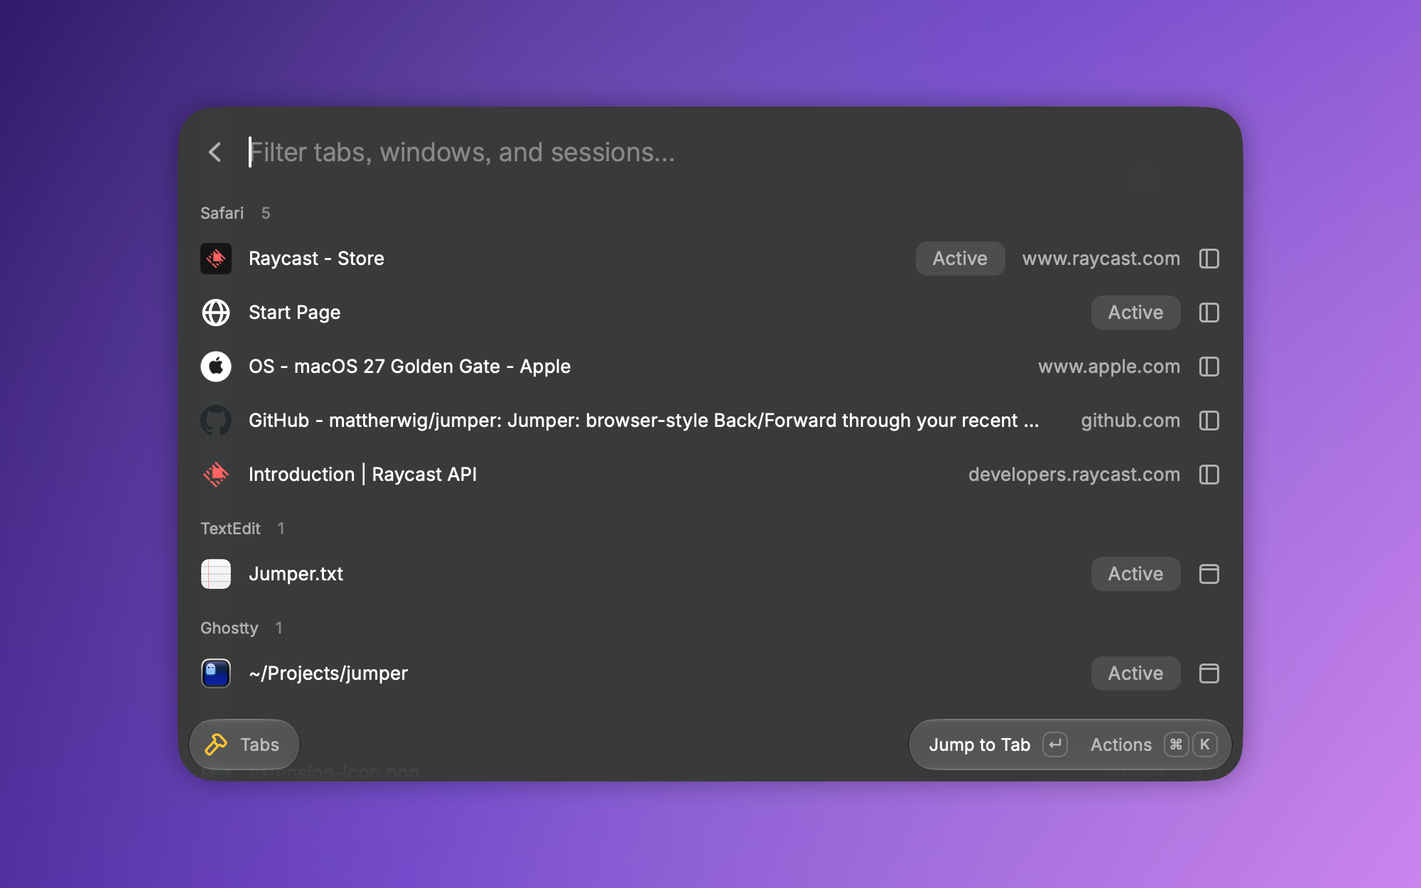
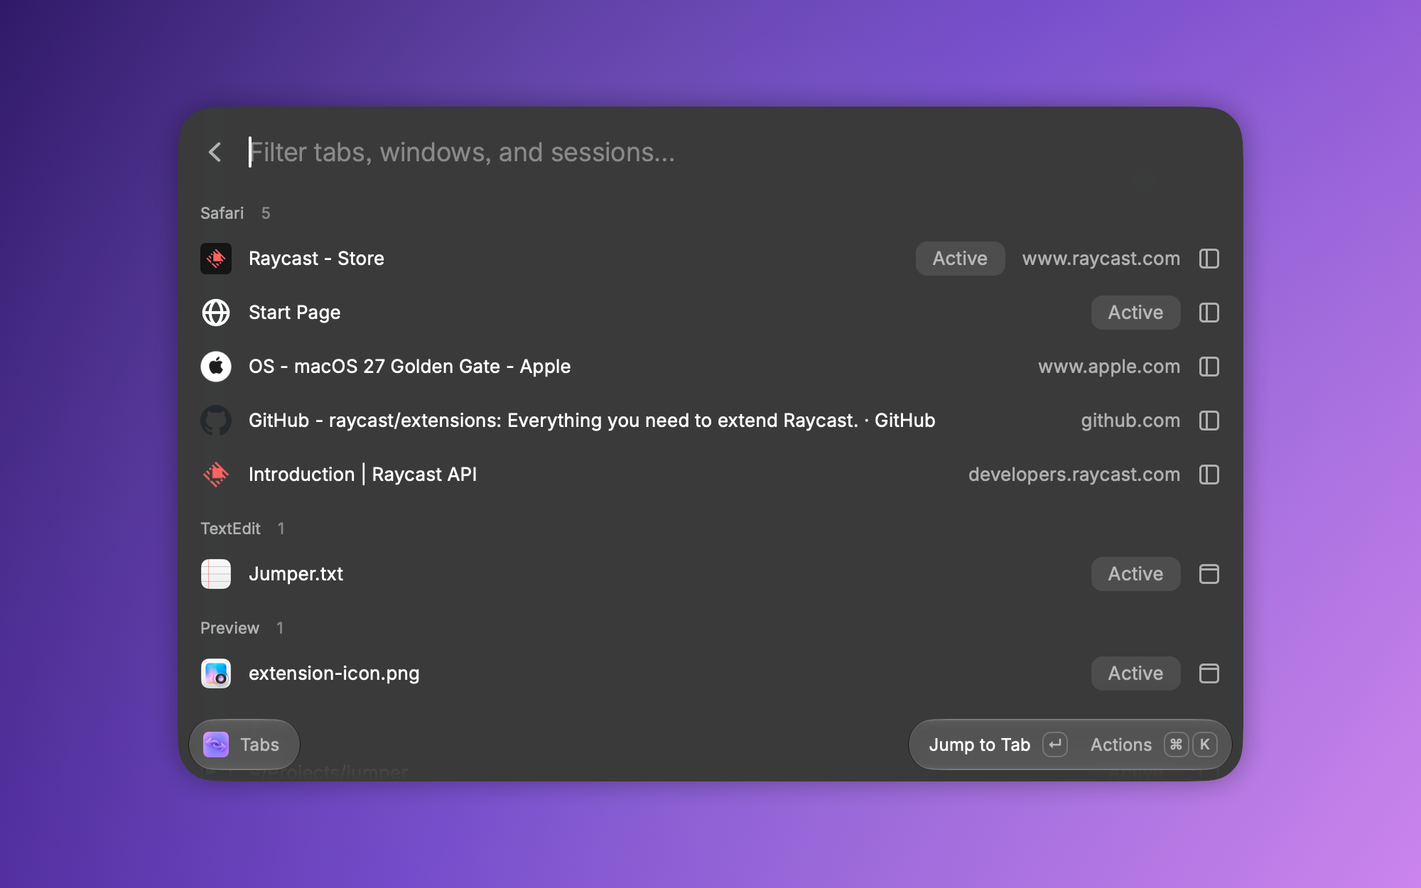
Demo GIF: staged windows over a backdrop, fuzzy Tabs jump to cmux
- keycast.swift: a dark Raycast-style backdrop at normal window level hides everything but the staged apps.
- Back/Forward/Toggle (shortened to 2/2/2) cycle through three staggered windows (Safari, Preview, TextEdit), so each switch is visible.
- Tabs pastes the fuzzy query "gh-pages" and jumps to the owner's cmux workspace github-pages.
- Nothing shows the owner's name: Finder dropped from the demo apps (sidebar showed the home folder), staged GitHub tab is raycast/extensions.
- Screenshots retaken (jumper-5 no longer shows the owner's repo).

diff --git a/scripts/media/keycast.swift b/scripts/media/keycast.swift
@@ -3,7 +3,9 @@
 // Reads one JSON object per line on stdin:
 //   {"keys": ["⌃", "⌥", "["], "title": "Back", "detail": "to the previous app"}   keycaps HUD at the bottom
 //   {"card": "Jumper", "sub": "Back and Forward for your Mac apps"}               full-frame title card
-//   {}                                                                            hide everything
+//   {"backdrop": true}                                                            dark backdrop at normal window level
+//                                                                                 (stays until {"backdrop": false})
+//   {}                                                                            hide the HUD and card
 // EOF quits. Runs as an accessory app so it never takes focus (that would change the app history
 // being demoed).
 import AppKit
@@ -14,6 +16,7 @@ struct Message: Decodable {
   var detail: String?
   var card: String?
   var sub: String?
+  var backdrop: Bool?
 }
 
 let a = CommandLine.arguments.dropFirst().prefix(4).compactMap { Double($0) }
@@ -94,8 +97,47 @@ func show(_ panel: NSPanel, _ content: NSView, radius: CGFloat, padding: NSEdgeI
 
 let hud = makePanel()
 let card = makePanel()
+let backdrop = makePanel()
+
+/// A desktop for the demo: covers the recording area at normal window level, ordered front once before the demo
+/// apps are activated, so their windows come up above it while the owner's own windows stay hidden behind it.
+func showBackdrop() {
+  let view = NSView()
+  view.wantsLayer = true
+  let base = CAGradientLayer()
+  base.colors = [
+    NSColor(srgbRed: 0.05, green: 0.04, blue: 0.09, alpha: 1).cgColor,
+    NSColor(srgbRed: 0.13, green: 0.07, blue: 0.24, alpha: 1).cgColor,
+  ]
+  base.startPoint = CGPoint(x: 0, y: 1)
+  base.endPoint = CGPoint(x: 1, y: 0)
+  base.frame = NSRect(origin: .zero, size: area.size)
+  // Raycast-style glows: coral top left, violet bottom right.
+  for (color, center) in [
+    (NSColor(srgbRed: 1.0, green: 0.39, blue: 0.39, alpha: 0.35), CGPoint(x: 0.15, y: 0.85)),
+    (NSColor(srgbRed: 0.55, green: 0.35, blue: 0.95, alpha: 0.45), CGPoint(x: 0.85, y: 0.15)),
+  ] {
+    let glow = CAGradientLayer()
+    glow.type = .radial
+    glow.colors = [color.cgColor, color.withAlphaComponent(0).cgColor]
+    glow.startPoint = center
+    glow.endPoint = CGPoint(x: center.x + 0.6, y: center.y + 0.6)
+    glow.frame = base.frame
+    base.addSublayer(glow)
+  }
+  view.layer = base
+  backdrop.level = .normal
+  backdrop.hasShadow = false
+  backdrop.contentView = view
+  backdrop.setFrame(area, display: true)
+  backdrop.orderFrontRegardless()
+}
 
 func handle(_ m: Message) {
+  if let b = m.backdrop {
+    if b { showBackdrop() } else { backdrop.orderOut(nil) }
+    return
+  }
   if let keys = m.keys {
     let caps = NSStackView(views: keys.map(keycap))
     caps.spacing = 6

diff --git a/scripts/media/store_media.py b/scripts/media/store_media.py
@@ -28,7 +28,10 @@ atexit.register(shutil.rmtree, TMP, ignore_errors=True)
 # Built-in apps with no personal content, activated oldest -> newest so they fill every visible
 # History row (about 10 on a 1352x878pt screen) and push the user's own apps out of view.
 # The last one is "Current".
-# `framed` apps get their window moved over the recording area for the GIF.
+# `staged` apps are the GIF's cast: their windows are placed staggered over the recording area, above a backdrop
+# that hides everything else (the other demo apps' windows and the owner's own). Back, Forward, and Toggle cycle
+# through them. Keep them last, and keep the owner's personal content out of them. No Finder: its sidebar shows
+# the home folder name, and it registered in the app order late, so Back landed on it instead of a staged app.
 DEMO_APPS = [
     ("Tips", ["open", "-a", "Tips"], False),
     ("Stocks", ["open", "-a", "Stocks"], False),
@@ -37,11 +40,10 @@ DEMO_APPS = [
     ("Dictionary", ["open", "dict://jump"], False),
     ("Font Book", ["open", "-a", "Font Book"], False),
     ("Chess", ["open", "-a", "Chess"], False),
-    ("Finder", None, True),  # opens a window on /System/Applications (Apple apps only), see setup_apps
-    ("Preview", ["open", "-a", "Preview", str(EXT / "assets/extension-icon.png")], True),
-    ("Ghostty", None, True),  # the owner's own session: used only if already running, never quit
+    ("Ghostty", None, False),  # the owner's own session: used only if already running, never quit or moved
     ("Safari", None, True),  # a new window with SAFARI_TABS; the owner's own windows are left alone
-    ("TextEdit", None, True),  # opens a scratch note, see setup_apps
+    ("Preview", ["open", "-a", "Preview", str(EXT / "assets/extension-icon.png")], True),
+    ("TextEdit", None, True),  # opens a scratch note
 ]
 
 # Public pages for the staged Safari window: the Tabs command's shots and GIF show these, with the owner's own
@@ -49,7 +51,7 @@ DEMO_APPS = [
 SAFARI_TABS = [
     "https://www.raycast.com/store",
     "https://www.apple.com/os/macos/",
-    "https://github.com/mattherwig/jumper",
+    "https://github.com/raycast/extensions",
     "https://developers.raycast.com/",
 ]
 
@@ -138,19 +140,21 @@ def wait_for_window(process: str, timeout: float = 10) -> None:
 class DemoApps:
     """Brings up DEMO_APPS in order and undoes it afterwards (quits only what it launched)."""
 
-    def __init__(self, frame: tuple[int, int, int, int] | None = None):
-        self.frame = frame
+    def __init__(self, frames: dict[str, tuple[int, int, int, int]] | None = None, before_staged=None):
+        self.frames = frames or {}  # staged app -> window rect (x, y, w, h), for the GIF
+        self.before_staged = before_staged  # called once before the first staged app comes up (the backdrop)
         self.launched: list[str] = []
-        self.finder_window: str | None = None
         self.safari_window: str | None = None
         self.note = TMP / "Jumper.txt"
         self.previous_app = frontmost()
-        self.restore: list[tuple[str, str]] = []  # (process, "x, y, w, h") of windows we moved but don't own
 
     def __enter__(self):
         self.note.write_text(NOTE)
-        for name, cmd, framed in DEMO_APPS:
+        for name, cmd, staged in DEMO_APPS:
             process = PROCESS.get(name, name)
+            if staged and self.before_staged:
+                self.before_staged()
+                self.before_staged = None
             if name == "Ghostty":
                 if not running(name):
                     print("note: Ghostty not running, leaving it out of the demo", file=sys.stderr)
@@ -168,32 +172,20 @@ class DemoApps:
                         "  set w to front window\n"
                         + "".join(f'  tell w to make new tab at end of tabs with properties {{URL:"{u}"}}\n' for u in SAFARI_TABS[1:])
                         + "  set current tab of w to tab 1 of w\n"
-                        "  activate\n"
                         "  return id of w\n"
                         "end tell"
                     )
+                    # `open -a`, not AppleScript activate: an AppleScript-activated app may not register in
+                    # macOS's app order.
+                    subprocess.run(["open", "-a", "Safari"], check=True)
                     time.sleep(3)  # let the pages load, so titles and favicons are real
-                elif name == "Finder":
-                    self.finder_window = osa(
-                        'tell application "Finder"\n'
-                        '  set w to make new Finder window to (POSIX file "/System/Applications" as alias)\n'
-                        "  activate\n"
-                        "  return id of w\n"
-                        "end tell"
-                    )
                 else:
                     subprocess.run(cmd, check=True)
             wait_for_window(process)
             time.sleep(0.8)
-            if self.frame and framed:
-                x, y, w, h = self.frame
+            if name in self.frames:
+                x, y, w, h = self.frames[name]
                 try:
-                    if name == "Ghostty":
-                        bounds = osa(
-                            f'tell application "System Events" to tell process "{process}" to '
-                            "get (position of window 1) & (size of window 1)"
-                        )
-                        self.restore.append((process, bounds))
                     osa(
                         f'tell application "System Events" to tell process "{process}"\n'
                         f"  set position of window 1 to {{{x}, {y}}}\n"
@@ -202,22 +194,19 @@ class DemoApps:
                     )
                 except subprocess.CalledProcessError as e:
                     print(f"warning: could not frame {name}: {e.stderr.strip()}", file=sys.stderr)
+        if self.frames:
+            # Make the staged apps the three most recent for sure: an app activated during setup can register in
+            # macOS's app order late (Finder did), and a Back into an unstaged app raises all its windows over the
+            # backdrop.
+            for name in self.frames:
+                subprocess.run(["open", "-a", name], check=True)
+                time.sleep(0.8)
         time.sleep(0.5)
         return self
 
     def __exit__(self, *exc):
-        for process, bounds in self.restore:
-            x, y, w, h = bounds.split(", ")
-            osa(
-                f'tell application "System Events" to tell process "{process}"\n'
-                f"  set position of window 1 to {{{x}, {y}}}\n"  # position first, or the size gets clipped
-                f"  set size of window 1 to {{{w}, {h}}}\n"
-                "end tell"
-            )
         if self.safari_window:
             subprocess.run(["osascript", "-e", f'tell application "Safari" to close (window id {self.safari_window})'])
-        if self.finder_window:
-            subprocess.run(["osascript", "-e", f'tell application "Finder" to close (window id {self.finder_window})'])
         subprocess.run(
             ["osascript", "-e", f'tell application "TextEdit" to close (every document whose name is "{self.note.name}") saving no']
         )
@@ -295,8 +284,8 @@ def gif() -> None:
     if not shutil.which("ffmpeg"):
         sys.exit("ffmpeg not found: brew install ffmpeg")
     close_raycast()
-    # Recording area: Raycast's window plus a margin; every demo window is placed exactly on it,
-    # so whatever is behind (the user's own windows) never shows.
+    # Recording area: Raycast's window plus a margin. A backdrop covers it; the staged apps' windows sit staggered on
+    # top (top left to bottom right), so each switch visibly brings a different window forward.
     deeplink("history")
     deadline = time.time() + 6
     while (window := raycast_window()) is None and time.time() < deadline:
@@ -308,55 +297,65 @@ def gif() -> None:
     close_raycast()
     frame = (rx - 120, max(ry - 50, 40), rw + 240, rh + 170)
     x, y, w, h = frame
+    staged = [n for n, _, st in DEMO_APPS if st]
+    ww, wh = int(w * 0.6), int(h * 0.6)
+    frames = {
+        name: (x + int(w * (0.06 + 0.14 * i)), y + int(h * (0.05 + 0.15 * i)), ww, wh) for i, name in enumerate(staged)
+    }
     video = TMP / "demo.mov"
     back, fwd, tog, hist, tabs = (HOTKEYS[c] for c in ("back", "forward", "toggle", "history", "tabs"))
-    # Tabs step: types a filter that matches only the staged apple.com tab ("macOS 27 Golden Gate"). Raycast ranks
-    # matches across all apps, so the query must not match any of the owner's tabs or sessions (a jump there lands
-    # outside the recording area). Arrow keys aren't reliable either: Tabs opens on its cached list and the
-    # selection after the refresh varies. The query is pasted, not typed: every prefix ("g", "go") would briefly
-    # list matching private tabs. Checked after recording.
-    tab_target = SAFARI_TABS[1]
+    # App order after setup: TextEdit (current), Preview, Safari. Back/Forward/Toggle cycle through those three;
+    # History ↓↓ lands on Safari. Tabs then pastes a fuzzy query for the owner's cmux workspace "github-pages" (cmux
+    # fills the screen, so it covers the recording area). Pasted, not typed: every prefix ("g", "gh") would briefly
+    # list matching private tabs. Raycast ranks matches across all apps; "gh-pages" ranks the cmux workspace first
+    # (check with a test run if the owner's tabs change). Checked after recording.
+    tab_query, tab_target = "gh-pages", "cmux"
     card = {"card": "Jumper", "sub": "Jump to any app, tab, or session"}
     # (overlay message, deeplink command or keystroke or None, seconds to hold)
     timeline = [
-        (card, None, 2.8),
-        ({}, None, 0.4),
-        ({"keys": back, "title": "Back", "detail": "to the previous app"}, "back", 1.7),
-        ({"keys": back, "title": "Back", "detail": "and again"}, "back", 1.7),
-        ({"keys": back, "title": "Back", "detail": "as far as you like"}, "back", 1.9),
-        ({"keys": fwd, "title": "Forward", "detail": "retrace your steps"}, "forward", 1.7),
-        ({"keys": fwd, "title": "Forward", "detail": "retrace your steps"}, "forward", 1.7),
-        ({"keys": fwd, "title": "Forward", "detail": "back where you started"}, "forward", 1.9),
-        ({"keys": tog, "title": "Toggle", "detail": "flip between your last two apps"}, "toggle", 1.7),
-        ({"keys": tog, "title": "Toggle", "detail": "and back"}, "toggle", 1.9),
-        ({"keys": hist, "title": "History", "detail": "every running app, most recent first"}, "history", 2.2),
-        ({"keys": ["↓"], "title": "History", "detail": "pick any app"}, "key code 125", 0.5),
-        ({"keys": ["↓"], "title": "History", "detail": "pick any app"}, "key code 125", 0.5),
-        ({"keys": ["↓"], "title": "History", "detail": "pick any app"}, "key code 125", 0.9),
-        ({"keys": ["↩"], "title": "Switch to App", "detail": "jump straight there"}, "key code 36", 1.8),
-        ({"keys": tabs, "title": "Tabs", "detail": "every tab, window, and session"}, "tabs", 2.2),
-        ({"keys": ["golden gate"], "title": "Tabs", "detail": "search by title or URL"}, "paste:golden gate", 1.5),
-        ({"keys": ["↩"], "title": "Jump to Tab", "detail": "straight to that tab"}, "key code 36", 2.2),
-        ({}, None, 0.4),
-        ({"card": "Jumper", "sub": "Free on the Raycast Store"}, None, 2.8),
+        (card, None, 2.6),
+        ({}, None, 0.3),
+        ({"keys": back, "title": "Back", "detail": "to the previous app"}, "back", 1.3),
+        ({"keys": back, "title": "Back", "detail": "and further back"}, "back", 1.4),
+        ({"keys": fwd, "title": "Forward", "detail": "retrace your steps"}, "forward", 1.3),
+        ({"keys": fwd, "title": "Forward", "detail": "back where you started"}, "forward", 1.4),
+        ({"keys": tog, "title": "Toggle", "detail": "flip between your last two apps"}, "toggle", 1.3),
+        ({"keys": tog, "title": "Toggle", "detail": "and back"}, "toggle", 1.4),
+        ({"keys": hist, "title": "History", "detail": "every running app, most recent first"}, "history", 1.8),
+        ({"keys": ["↓"], "title": "History", "detail": "pick any app"}, "key code 125", 0.4),
+        ({"keys": ["↓"], "title": "History", "detail": "pick any app"}, "key code 125", 0.7),
+        ({"keys": ["↩"], "title": "Switch to App", "detail": "jump straight there"}, "key code 36", 1.5),
+        ({"keys": tabs, "title": "Tabs", "detail": "tabs, windows, and sessions of every app"}, "tabs", 2.0),
+        ({"keys": [tab_query], "title": "Fuzzy search", "detail": "finds the github-pages workspace in cmux"}, f"paste:{tab_query}", 1.8),
+        ({"keys": ["↩"], "title": "Jump to Tab", "detail": "straight to that workspace"}, "key code 36", 2.0),
+        ({}, None, 0.3),
+        ({"card": "Jumper", "sub": "Free on the Raycast Store"}, None, 2.6),
     ]
-    with DemoApps(frame) as demo:
-        keycast = subprocess.Popen(
-            ["swift", str(HERE / "keycast.swift"), *map(str, frame), str(EXT / "assets/extension-icon.png")], stdin=subprocess.PIPE, text=True
-        )
+    keycast = subprocess.Popen(
+        ["swift", str(HERE / "keycast.swift"), *map(str, frame), str(EXT / "assets/extension-icon.png")], stdin=subprocess.PIPE, text=True
+    )
 
-        def overlay(message: dict) -> None:
-            keycast.stdin.write(json.dumps(message) + "\n")  # type: ignore[union-attr]
-            keycast.stdin.flush()  # type: ignore[union-attr]
+    def overlay(message: dict) -> None:
+        keycast.stdin.write(json.dumps(message) + "\n")  # type: ignore[union-attr]
+        keycast.stdin.flush()  # type: ignore[union-attr]
+
+    def backdrop() -> None:
+        overlay({"backdrop": True})
+        time.sleep(5)  # keycast compiles on first run
+
+    with DemoApps(frames, before_staged=backdrop):
 
         # Warm Tabs' cache: it shows the last list first, which would otherwise be from the owner's own use.
         deeplink("tabs")
         time.sleep(3)
         close_raycast()
+        for name in frames:  # the warm-up can shift the app order; staged apps must be the three most recent
+            subprocess.run(["open", "-a", name], check=True)
+            time.sleep(0.8)
         # Park the pointer outside the recording area (screencapture -v records it).
         subprocess.run(["swift", "-e", "import CoreGraphics; CGWarpMouseCursorPosition(CGPoint(x: 2, y: 2000))"])
         overlay(card)
-        time.sleep(4)  # keycast compiles on first run; the card is up before recording starts
+        time.sleep(1)  # the card is up before recording starts
         duration = sum(hold for *_, hold in timeline) + 1.5
         rec = subprocess.Popen(
             ["screencapture", "-x", "-v", "-V", str(int(duration) + 1), "-R", f"{x},{y},{w},{h}", str(video)]
@@ -386,9 +385,8 @@ def gif() -> None:
         rec.wait()
         keycast.stdin.close()
         keycast.wait()
-        landed = osa(f'tell application "Safari" to get URL of current tab of window id {demo.safari_window}')
-        if frontmost() != "Safari" or landed.rstrip("/") != tab_target.rstrip("/"):
-            print(f"warning: Tabs jump landed on {frontmost()} {landed}, expected Safari {tab_target}", file=sys.stderr)
+        if frontmost() != tab_target:
+            print(f"warning: Tabs jump landed on {frontmost()}, expected {tab_target}: don't use this GIF", file=sys.stderr)
 
         out = EXT / "media"
         out.mkdir(exist_ok=True)

diff --git a/.claude/skills/demo-gif/SKILL.md b/.claude/skills/demo-gif/SKILL.md
@@ -5,7 +5,7 @@ description: Record Jumper's demo GIF (extension/media/demo.gif, shown at the to
 
 # Demo GIF
 
-Produces `extension/media/demo.gif` (~32s, ~4.5 MB at 12 fps): a title card (the tagline), Back ×3, Forward ×3, Toggle ×2, History (↓↓↓ ↩), Tabs (paste "golden gate" ↩, lands on the staged apple.com tab), and an end card. Each step shows keycaps with the owner's hotkeys and a caption. `extension/README.md` embeds it as `![Jumper demo](media/demo.gif)`; Raycast requires README media in a `media/` folder at the extension's top level. The root GitHub README embeds it as `extension/media/demo.gif`. The same clip works as the PR screencast and for launch posts.
+Produces `extension/media/demo.gif` (~24s, ~3 MB at 12 fps): a title card (the tagline), Back ×2, Forward ×2, Toggle ×2 (all cycling through the same three staged windows), History (↓↓ ↩), Tabs (paste the fuzzy query "gh-pages" ↩, lands on the owner's cmux workspace `github-pages`), and an end card. Each step shows keycaps with the owner's hotkeys and a caption. `extension/README.md` embeds it as `![Jumper demo](media/demo.gif)`; Raycast requires README media in a `media/` folder at the extension's top level. The root GitHub README embeds it as `extension/media/demo.gif`. The same clip works as the PR screencast and for launch posts.
 
 ## Before running
 
@@ -21,13 +21,15 @@ python3 scripts/media/store_media.py gif
 
 What it does (`scripts/media/store_media.py`):
 - Opens History once to measure Raycast's window, and sets the recording area to that plus a margin.
-- Brings up the demo apps (see `DEMO_APPS`) and moves every framed app's window exactly onto the recording area, so the user's own windows behind are never recorded. Framed: Finder on /System/Applications, Preview on the icon, the owner's **Ghostty** window, TextEdit on a scratch note.
-- **Ghostty is the owner's live session: never quit or close it.** The script only uses it if already running, saves its window frame, and restores it afterwards (position before size, or macOS clips the width).
-- Parks the pointer outside the area, then starts `keycast.swift`, an accessory-app overlay (never takes focus, so it doesn't disturb the app history being demoed) that draws the keycaps HUD and the full-frame title cards. Keys come from `HOTKEYS` in `store_media.py` (the owner's bindings, also the README's suggested hotkeys: change both together and rerun); commands are actually triggered by deeplink, as Raycast ignores synthetic hotkeys.
+- Starts `keycast.swift` and brings up the demo apps (see `DEMO_APPS`). Before the first **staged** app (Safari with `SAFARI_TABS`, Preview on the icon, TextEdit on a scratch note), keycast puts up a dark Raycast-style **backdrop** at normal window level over the recording area: everything activated before it (the other demo apps, the owner's own windows) stays hidden behind it, and the staged windows come up above it, staggered from top left to bottom right, so each Back/Forward/Toggle visibly brings a different window forward. Then it re-activates the staged apps with `open -a` (again right before recording) so they're the three most recent.
+- **Only staged apps may become frontmost during the demo**: activating any other app raises all its windows over the backdrop. Finder was dropped from `DEMO_APPS` for this: it registered in the app order late, Back landed on it, and its sidebar showed the owner's home folder name.
+- **Ghostty is the owner's live session: never quit, close, or move it.** It's only activated (if already running) to fill a History row.
+- Parks the pointer outside the area. `keycast.swift` is an accessory-app overlay (never takes focus, so it doesn't disturb the app history being demoed) that draws the keycaps HUD and the full-frame title cards. Keys come from `HOTKEYS` in `store_media.py` (the owner's bindings, also the README's suggested hotkeys: change both together and rerun); commands are actually triggered by deeplink, as Raycast ignores synthetic hotkeys.
 - Stops if Raycast's window is still up a second after the first run of a no-view command: that is the "Request to run" prompt.
-- Tabs step: opens Tabs once before recording to warm its cache (it shows the cached list first; otherwise that would be from the owner's own use). Then it **pastes** a query that matches only one staged tab. Lessons from getting this wrong:
+- Tabs step: opens Tabs once before recording to warm its cache (it shows the cached list first; otherwise that would be from the owner's own use). Then it **pastes** `tab_query` ("gh-pages", a fuzzy match for the owner's cmux workspace `github-pages`; cmux fills the screen, so the jump covers the recording area). If the owner's tabs change, test candidate queries first (open Tabs, `paste()`, capture Raycast's window) and pick one whose top result is the target and whose other results show nothing private. Lessons from getting this wrong:
   - Arrow keys are unreliable in Tabs: the selection after the cached list refreshes varies from run to run, and one run jumped to the owner's own Safari Start Page window, outside the recording area.
-  - Raycast ranks filtered results across all apps, not by section order: "mattherwig" put the owner's Chrome tabs first.
+  - Raycast ranks filtered results across all apps, not by section order: "mattherwig" put the owner's Chrome tabs first ("ghpages" ranks a Claude session above cmux; "gh-pages" doesn't).
+  - Nothing showing the owner's name: no staged page or window with it (the staged GitHub tab is `raycast/extensions`, not the owner's repo).
   - Typing letter by letter flashes every prefix's matches ("gol" showed a Gmail tab with the owner's address). Paste instead (`paste()` restores the clipboard's text).
   - After recording, the script warns if the jump didn't land on `tab_target`: treat that GIF as bad.
 - Records the area with `screencapture -v -R`, converts with ffmpeg (12 fps, 960px wide, palette), cleans up the apps it launched.
@@ -43,7 +45,9 @@ ffmpeg -loglevel error -y -i extension/media/demo.gif -vf "select='not(mod(n\,30
 Check:
 - Every step actually switched app (the frontmost window changes); no Raycast "Request to run" dialog anywhere.
 - Nothing personal: only demo windows (including what's on screen in Ghostty), Raycast's History view, and labels. If a user window, notification, or menu shows up, delete the GIF and rerun (turn on Do Not Disturb).
-- The Tabs step shows only staged rows (staged Safari tabs, demo windows) and ends on the staged apple.com tab.
+- Every Back/Forward/Toggle brings a staged window forward over the backdrop; no other app's window appears.
+- The Tabs step shows only staged rows before the query, the filtered results are harmless, and it ends on the cmux workspace.
+- Nowhere shows the owner's name (Finder sidebars, GitHub tabs) or email.
 - Size stays reasonable (under ~5 MB); lower `fps` or `scale` in `gif()` if not.
 
 Then make sure `extension/README.md` starts with the demo image, `cd extension && npm run check`, commit `extension/media/demo.gif`.
